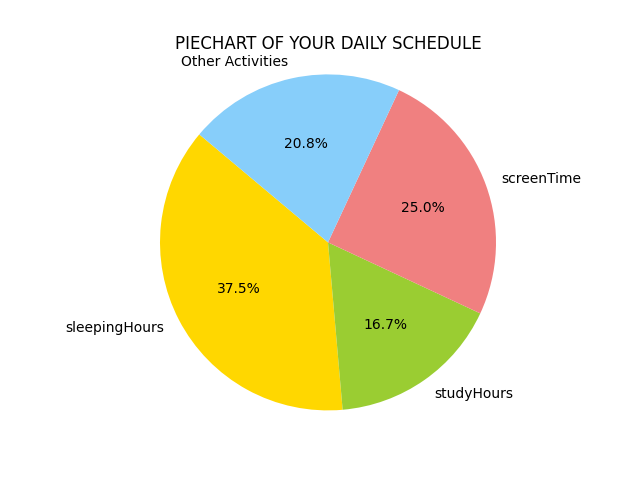
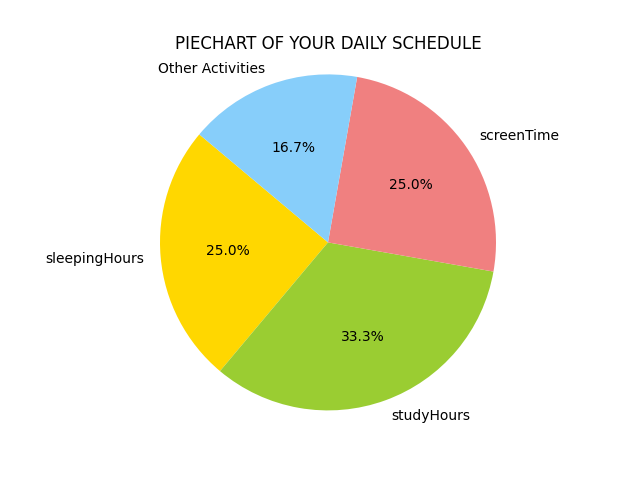
Output Display Done

diff --git a/templates/kt-output.html b/templates/kt-output.html
@@ -1,0 +1,125 @@
+
+<!doctype html>
+
+<html lang="en"> 
+
+ <head> 
+
+   <meta charset="UTF-8">
+   <meta name="viewport" content="width=device-width, initial-scale=1.0">
+   <title>kt-Output Page</title>
+
+  <link rel="stylesheet" href="/static/kt-output.css"> 
+
+ </head> 
+
+ <body>
+  <h1>
+    Schedule Comparison
+  </h1>
+<div class="content1">
+<div class="Performance_Chart">
+  {% if user_id %}
+<!-- Assuming your image file is named User_id_performance_graph.png -->
+<img src="{{ url_for('static', filename=user_id + '_performance_piechart.png') }}" alt="Performance Pie Chart" class="Performance_Chart">
+{% else %}
+<p>No Piecharts available.</p>
+{% endif %}
+</div>
+<div class="ideal-piechart">
+  <!-- Assuming your image file is named ideal_performance_piechart.png -->
+  <img src="{{ url_for('static', filename='Ideal_performance_piechart.png') }}" alt="Ideal Performance Pie Chart" class="Performance_Chart">
+</div>
+</div>
+<div class="comparison-section">
+  <p id="comparison-placeholder">Loading comparison...</p>
+</div>
+<div class="tips-section">
+    <h1>STRATEGIES TO IMPROVE IN KT SUBJECTS</h1>
+    <p id="tips-placeholder">Loading tips...</p>
+  </div>
+  </div>
+</div>
+<script type="module">
+  // Import the functions you need from the SDKs you need
+  import { initializeApp } from "https://www.gstatic.com/firebasejs/10.9.0/firebase-app.js";
+  import { getFirestore, doc, getDoc } from "https://www.gstatic.com/firebasejs/10.9.0/firebase-firestore.js";
+  // https://firebase.google.com/docs/web/setup#available-libraries
+
+  // Your web app's Firebase configuration
+  // For Firebase JS SDK v7.20.0 and later, measurementId is optional
+  const firebaseConfig = {
+    apiKey: "AIzaSyCpFl0lAVKcKrg5gCzlz2RuQ3zt7xCY_dc",
+    authDomain: "student-performance-pred-f6c38.firebaseapp.com",
+    projectId: "student-performance-pred-f6c38",
+    storageBucket: "student-performance-pred-f6c38.appspot.com",
+    messagingSenderId: "563801963757",
+    appId: "1:563801963757:web:e96ecb591d2820986160e4",
+    measurementId: "G-6Z11YCS39Q"
+  };
+
+  // Initialize Firebase
+  const app = initializeApp(firebaseConfig);
+  const db = getFirestore(app);
+
+   // Function to fetch tips for the specified user ID
+   async function fetch_kt_Tips(user_id) {
+      try {
+        // Construct the Firestore document reference
+        const userDocRef = doc(db, "users", user_id);
+
+        // Fetch the document snapshot
+        const docSnap = await getDoc(userDocRef);
+
+        // Check if the document exists and has the tips field
+        if (docSnap.exists()) {
+          const tips = docSnap.data().kt_tips;
+          const tipsPlaceholder = document.getElementById("tips-placeholder");
+          if(tips){
+            tipsPlaceholder.innerHTML=tips.split('\n').join('<br>');
+          } else{
+          tipsPlaceholder.textContent = "No tips available.";
+          }
+        } else {
+          console.log("User document not found.");
+        }
+      } catch (error) {
+        console.error("Error fetching tips:", error);
+      }
+    }
+    
+
+      // Function to fetch comparison for the specified user ID
+      async function fetchComparison(user_id) {
+      try {
+        // Construct the Firestore document reference
+        const userDocRef = doc(db, "users", user_id);
+
+        // Fetch the document snapshot
+        const docSnap = await getDoc(userDocRef);
+
+        // Check if the document exists and has the comparison field
+        if (docSnap.exists()) {
+          const comparison = docSnap.data().comparison;
+          const comparisonPlaceholder = document.getElementById("comparison-placeholder");
+          if (comparison) {
+            comparisonPlaceholder.innerHTML = comparison.split('\n').join('<br>');
+          } else {
+            comparisonPlaceholder.textContent = "No comparison available.";
+          }
+        } else {
+          console.log("User document not found.");
+        }
+      } catch (error) {
+        console.error("Error fetching comparison:", error);
+      }
+    }
+
+
+  var user_id = "{{ user_id }}"; // Get user_id from Flask
+  fetch_kt_Tips(user_id);
+  fetchComparison(user_id);
+
+  </script>
+ </body>
+ </html>

diff --git a/static/kt-output.css b/static/kt-output.css
@@ -1,0 +1,62 @@
+@import url('https://fonts.googleapis.com/css2?family=Quicksand:wght@300;400;500;600;700&display=swap');
+
+body {
+  background-color: #252424;
+  color: #0f0; /* Text color */
+  font-family: Arial, sans-serif;
+  overflow-y: auto;
+}
+
+.container {
+  width: 80%; /* Adjust as needed */
+  margin: 0 auto; /* Center the container horizontally */
+  padding: 20px; /* Add some padding */
+}
+
+.content1{
+  display: flex;
+  align-items:flex-start;
+}
+
+h2{
+  text-align: center;
+}
+
+h1 {
+  text-align: center; /* Center the heading */
+}
+
+.Performance_Chart,.ideal-piechart{
+    /* float: left; Float the graph section to the left */
+    width: 90%; /* Adjust width as needed */
+  }
+
+.tips-section {
+  text-align: center;
+}
+
+.comparison-section{
+  text-align: center;
+}
+
+
+.content::after {
+  content: "";
+  display: table;
+  clear: both;
+}
+
+
+.error-message {
+  text-align: center; /* Center the error message */
+}
+
+.tips-section p {
+  font-size: 17px; /* Adjust font size as needed */
+  line-height: 2.5; /* Adjust line height as needed */
+}
+
+.comparison-section p{
+  font-size: 17px;
+  line-height: 2.5;
+}

diff --git a/templates/kt.html b/templates/kt.html
@@ -276,7 +276,7 @@ for (let i = 1; i <= 8; i++) {
               selectedSubjects: selectedSubjects
             });
            // Optionally, redirect to another page after submission
-                // window.location.href = "success.html";
+                window.location.href = `http://127.0.0.1:5000/kt_output/${user.uid}`;
                 alert('Form submitted successfully!');
         } catch (error) {
             console.error('User input error:', error.message);

diff --git a/app.py b/app.py
@@ -4,7 +4,7 @@ from firebase_admin import firestore
 import google.generativeai as genai
 import os
 from dotenv import load_dotenv
-from flask import Flask, request, jsonify,render_template,redirect,url_for,session
+from flask import Flask, request, jsonify,render_template,redirect,url_for
 from flask_cors import CORS
 import numpy as np
 import matplotlib.pyplot as plt
@@ -121,11 +121,22 @@ def receive_user_id():
         user_id = request.json.get('userId')
         if user_id:
             output = get_selected_subjects(user_id)
-            if output is not None:
-                tips = generate_output(output)
-                if tips is not None:
-                    print(tips)
-                    return jsonify({'tips': tips}), 200
+            piechart=retrieve_other_info(user_id)
+            if output and piechart is not None:
+                piechart_data = {key: value for key, value in piechart.items() if key != 'learningStyle'}
+                total_hours = 24
+                screen_time = int(piechart_data.get('screenTime', 0))
+                study_time = int(piechart_data.get('studyHours', 0))
+                sleep_hours = int(piechart_data.get('sleepingHours', 0))
+                other_activities_hours = total_hours - (screen_time + study_time + sleep_hours)
+                piechart_data['Other Activities'] = other_activities_hours
+                kt_tips = generate_output(output)
+                comparison=generate_comparison(piechart_data)
+                create_piechart(user_id,piechart_data)
+                if kt_tips and comparison :
+                    user_ref = db.collection('users').document(user_id)
+                    user_ref.update({'kt_tips': kt_tips,'comparison': comparison})
+                    return redirect(url_for('display_kt_output',user_id=user_id))
                 else:
                     return 'Error in generating LLM response', 200
             else:
@@ -142,13 +153,58 @@ def receive_user_id():
 def generate_output(selected_subjects_list):
     try:
         model = genai.GenerativeModel("gemini-pro")
-        prompt_2 = f"""semester and subjects:{selected_subjects_list}."""  
+        prompt_2 = f"""Semester and Subjects: ({selected_subjects_list})
+
+Goal: Develop effective strategies to improve academic performance in the above given subjects.
+
+Request: Please provide concise and professional bullet points on achieving these goals for each subject listed.
+
+Additionally:
+
+Focus on actionable strategies that can be implemented immediately.
+Prioritize clear and easy-to-understand explanations."""  
         response_2 = model.generate_content(prompt_2)
         return response_2.text
     except Exception as e:
         error_message = f"Error generating response: {e}"
         return error_message
     
+
+
+def generate_comparison(piechart_data):
+    try:
+        model = genai.GenerativeModel("gemini-pro")
+        ideal_data={'Max_ScreenTime':2, 'Enough_SleepHours':8, 'Min-StudyTime':2,'Other_Activities':12}
+        prompt_2 = f"""Task: Compare a student's current daily schedule with an ideal daily schedule and provide strategies to align them.
+
+Instructions:
+
+Given the current daily schedule of the student and an ideal daily schedule, provide comparative strategies to help the student achieve a schedule closer to the ideal one.
+Present the strategies in concise bullet points, maintaining a professional tone and avoiding the use of bold formatting.
+Prompt:
+"Student's Current Daily Schedule: ({piechart_data})
+Ideal Daily Schedule: ({ideal_data})
+
+Compare the student's current daily schedule with the ideal daily schedule and provide comparative strategies to achieve alignment. Offer concise bullet-point recommendations for adjusting the student's schedule to better match the ideal one. Ensure the strategies are practical, actionable, and presented in a professional manner without using bold formatting."""
+
+        response = model.generate_content(prompt_2)
+        return response.text
+    except Exception as e:
+        error_message = f"Error generating response: {e}"
+        return error_message
+
+
+def create_piechart(user_id,piechart_data):
+    labels = list(piechart_data.keys())
+    values = list(piechart_data.values())
+    colors = ['gold', 'yellowgreen', 'lightcoral', 'lightskyblue']
+    plt.pie(values, labels=labels,colors=colors, autopct='%1.1f%%', startangle=140)
+    plt.title('PIECHART OF YOUR DAILY SCHEDULE')
+    plt.axis('equal')  # Equal aspect ratio ensures that pie is drawn as a circle
+    piechart_filename=f"static/{user_id}_performance_piechart.png"
+    plt.savefig(piechart_filename)
+    plt.clf()    
+    return 'Piechart saved'
 
 
 @app.route('/cgpa', methods=['POST'])
@@ -264,6 +320,10 @@ Compare the student's current daily schedule with the ideal daily schedule and p
 def display_output(user_id):
        return render_template("output.html", user_id=user_id)
 
+
+@app.route('/kt_output/<string:user_id>')
+def display_kt_output(user_id):
+    return render_template("kt-output.html", user_id=user_id)
 
 
     
